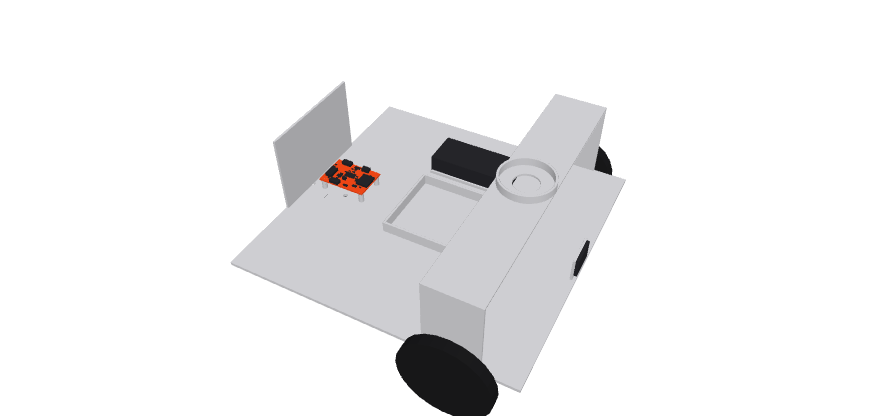
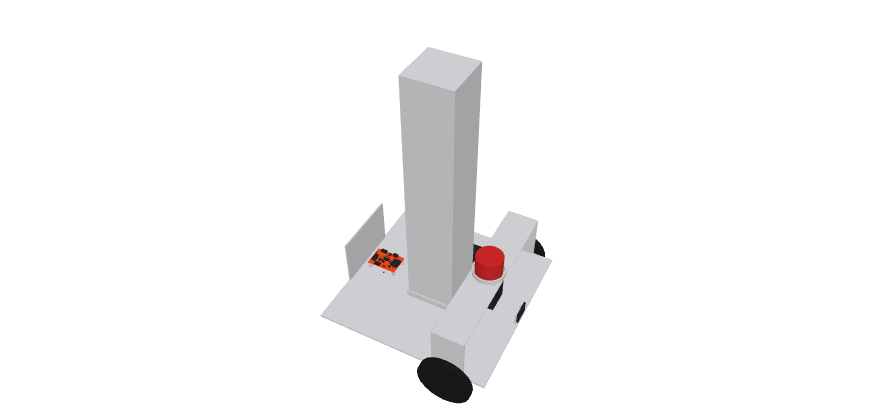
feat(view): the 3D view draws a robot's beacon mast and its red emergency stop, and frames tall robots whole
The Eurobot base's still showed neither its beacon mast (printed in sections, separate STLs) nor its e-stop button
(its deck and the sticker panel are in chassis.stl): world3d.js roverParts now draws the mast to its top and the
button's red head above the deck's panel with its body under it, from the chassis spec (ChassisEstop gains the
button's aboveMm, belowMm, bodyMm). fitView sized the camera by the width and depth only and cut the 430 mm mast off: it
counts the height too. Anything lower than it is wide frames as before: the reference rover's still differs from the old
code by 2225 pixels, less than two captures of the old code differ (5434: the renderer isn't byte-deterministic).
examples/eurobot re-saved from a mock on the merged commit (rev 12, 0 violations; mock rover rev 15, 0) with its still.

Changed region(s): [[0.2449, 0.125, 0.7041, 1.0]]

diff --git a/src/dashboard/world3d.js b/src/dashboard/world3d.js
@@ -142,6 +142,19 @@ function bounds(tris) {
 const CHASSIS = [222, 222, 226]
 const TYRE = [28, 28, 30]
 const METAL = [150, 150, 158]
+const ESTOP_RED = [214, 40, 40] // the emergency stop's mushroom head (Eurobot F.4.c: red)
+
+// A cylinder whose axis runs along z (a button's head), as triangles, from z0 up to z1.
+function cylinderZ(cx, cy, z0, z1, r, n = 24) {
+	const out = []
+	for (let i = 0; i < n; i++) {
+		const a = (i / n) * 2 * Math.PI, b = ((i + 1) / n) * 2 * Math.PI
+		const [xa, ya, xb, yb] = [cx + r * Math.cos(a), cy + r * Math.sin(a), cx + r * Math.cos(b), cy + r * Math.sin(b)]
+		out.push(xa, ya, z0, xb, yb, z0, xb, yb, z1, xa, ya, z0, xb, yb, z1, xa, ya, z1)
+		out.push(cx, cy, z1, xa, ya, z1, xb, yb, z1, cx, cy, z0, xb, yb, z0, xa, ya, z0)
+	}
+	return out
+}
 
 // A cylinder whose axis runs along y (a wheel), as triangles.
 function cylinderY(cx, cy, cz, r, w, n = 24) {
@@ -176,6 +189,14 @@ function roverParts(spec, chassisTris) {
 	}
 	const top = lift + spec.plate.thicknessMm
 	if (spec.battery) { const [l, w, h] = spec.battery.sizeMm; add(boxTris([spec.battery.xMm - l / 2, spec.battery.yMm - w / 2, top], [spec.battery.xMm + l / 2, spec.battery.yMm + w / 2, top + h]), PART) }
+	// The beacon support's mast (printed in sections, drawn whole) up to its top, z from the floor (Eurobot F.6).
+	if (spec.beacon) { const b = spec.beacon, h = b.sizeMm / 2; add(boxTris([b.xMm - h, b.yMm - h, top], [b.xMm + h, b.yMm + h, b.topMm]), CHASSIS) }
+	// The emergency stop: its red head above the deck's panel (the deck and collar are in chassis.stl), its body under it.
+	if (spec.estop && spec.estop.aboveMm) {
+		const e = spec.estop, bh = e.bodyMm / 2
+		add(cylinderZ(e.xMm, e.yMm, e.panelTopMm, e.panelTopMm + e.aboveMm, e.headMm / 2), ESTOP_RED)
+		add(boxTris([e.xMm - bh, e.yMm - bh, e.panelTopMm - e.panelMm - e.belowMm], [e.xMm + bh, e.yMm + bh, e.panelTopMm - e.panelMm]), PART)
+	}
 	if (spec.sensor) { const [w, h, t] = spec.sensor.sizeMm; add(boxTris([spec.sensor.xMm - t / 2, spec.sensor.yMm - w / 2, spec.sensor.zMm - h / 2], [spec.sensor.xMm + t / 2, spec.sensor.yMm + w / 2, spec.sensor.zMm + h / 2]), PART) }
 	return { parts, boardAt: spec.boards?.[0] ?? { xMm: 0, yMm: 0 }, boardZ: top + (spec.standoffMm ?? 10) }
 }
@@ -419,7 +440,9 @@ export function mountWorld(host, opts = {}) {
 		const ext = names.map((n) => S.boards.get(n)).filter(Boolean).map((b) => ({ min: b.extent.min.map((v, k) => v + (k < 2 ? b.at[k] : 0)), max: b.extent.max.map((v, k) => v + (k < 2 ? b.at[k] : 0)) }))
 		if (!ext.length) return { ...S.cam }
 		const min = [0, 1, 2].map((k) => Math.min(...ext.map((e) => e.min[k]))), max = [0, 1, 2].map((k) => Math.max(...ext.map((e) => e.max[k])))
-		const size = Math.max(max[0] - min[0], max[1] - min[1], 20)
+		// The height counts too: a robot carrying a beacon mast (430 mm on a 260 mm plate) had its top cut off. Anything
+		// lower than it is wide (every board, case and the indoor rovers) frames as before.
+		const size = Math.max(max[0] - min[0], max[1] - min[1], max[2] - min[2], 20)
 		return { yaw: S.cam.yaw, pitch: names.length === 1 ? 0.75 : 0.55, distance: size * (names.length === 1 ? 2.1 : 1.25), target: [(min[0] + max[0]) / 2, (min[1] + max[1]) / 2, (min[2] + max[2]) / 2] }
 	}
 

diff --git a/src/tools/chassis.ts b/src/tools/chassis.ts
@@ -22,7 +22,7 @@ const exec = promisify(execFile)
 // The e-stop's printed deck (py/chassis.py): a bridge across the plate on two walls at its long edges, clear of
 // everything on the plate; its panel PANEL_MM thick (within the button's 1-3 mm) with the button's cutout, and the collar
 // ring around the head (mechanics.safety.estop.collarMm), HEAD_CLEARANCE_MM clear of it so it stays free to hit.
-export interface ChassisEstop { xMm: number; yMm: number; panelTopMm: number; panelMm: number; holeMm: number; headMm: number; collarMm: number }
+export interface ChassisEstop { xMm: number; yMm: number; panelTopMm: number; panelMm: number; holeMm: number; headMm: number; collarMm: number; aboveMm: number; belowMm: number; bodyMm: number }
 // A beacon support's printed mast (py/chassis.py): sections of at most this height (an ESTIMATE of a common printer's
 // build height) on a socket on the plate; each section above the first has a spigot into the one below.
 export const MAST_SECTION_MAX_MM = 200
@@ -226,7 +226,7 @@ export function chassisSpec(s: ContractSnapshot, others: { name: string; outline
 		unplaced,
 		...((p) => (p ? { sticker: { xMm: p.xMm, yMm: p.yMm, zMm: p.zMm, sizeMm: p.sizeMm as [number, number, number] } } : {}))(stickerPanel(mech)),
 		...(mech.beacon ? { beacon: { xMm: mech.beacon.at.xMm, yMm: mech.beacon.at.yMm, topMm: mech.beacon.topMm, sizeMm: mech.beacon.sizeMm, wallMm: mech.beacon.mastWallMm, sectionMaxMm: MAST_SECTION_MAX_MM } } : {}),
-		...((e, b) => (e && b ? { estop: { xMm: e.at.xMm, yMm: e.at.yMm, panelTopMm: e.at.zMm, panelMm: Math.min(b.panelMaxMm, Math.max(b.panelMinMm, ESTOP_PANEL_MM)), holeMm: b.panelHoleMm, headMm: b.headMm, collarMm: e.collarMm ?? 0 } } : {}))(mech.safety?.estop, mech.safety?.estop ? estopPart(cat.mech, mech.safety.estop.part) : undefined),
+		...((e, b) => (e && b ? { estop: { xMm: e.at.xMm, yMm: e.at.yMm, panelTopMm: e.at.zMm, panelMm: Math.min(b.panelMaxMm, Math.max(b.panelMinMm, ESTOP_PANEL_MM)), holeMm: b.panelHoleMm, headMm: b.headMm, collarMm: e.collarMm ?? 0, aboveMm: b.aboveMm, belowMm: b.belowMm, bodyMm: b.bodyMm } } : {}))(mech.safety?.estop, mech.safety?.estop ? estopPart(cat.mech, mech.safety.estop.part) : undefined),
 		sensor: { ...mech.sensor.at, sizeMm: sensor.sizeMm, rangeMm: sensor.rangeMm, updateMs: sensor.updateMs, holes: sensorHoles(sensor, mech.sensor.at, mech.chassis), holeDiaMm: SENSOR_HOLE_MM },
 		massG,
 		com,
